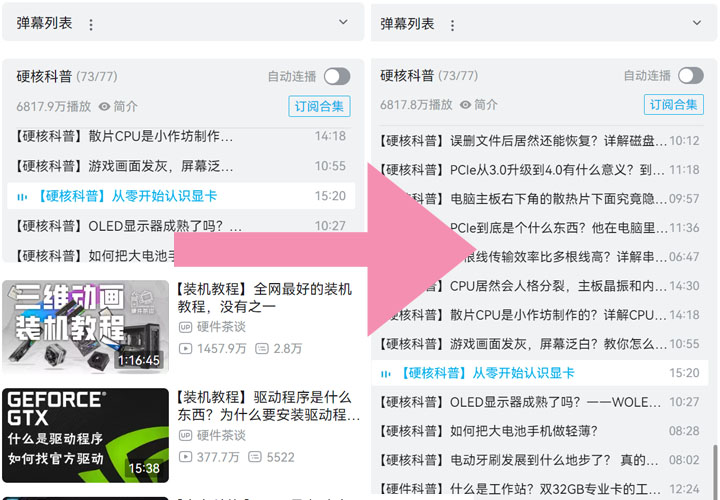
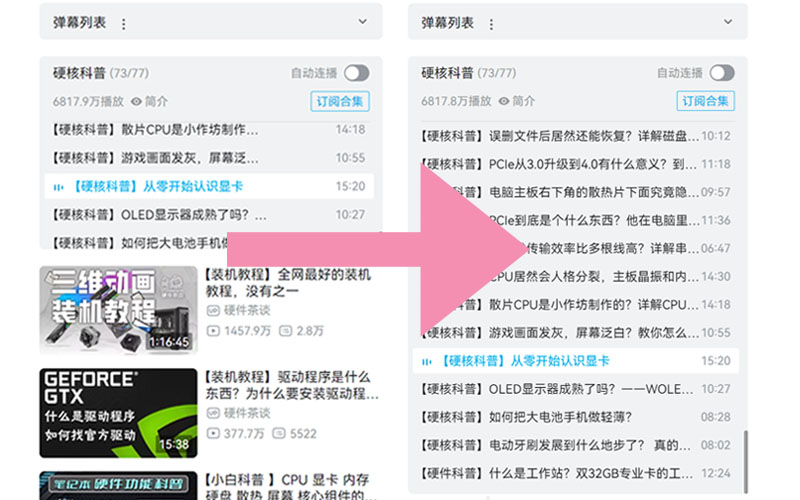
picture

diff --git a/README.md b/README.md
@@ -1,6 +1,12 @@
 # BiliRefine
-修改哔哩哔哩视频合集长度_直播视频大小_评论区间隔
 
-此代码为油猴(Tampermonkey)js脚本，油猴project address_https://greasyfork.org/zh-CN/scripts/480765-%E5%93%94%E5%93%A9%E5%93%94%E5%93%A9%E8%A7%86%E9%A2%91%E5%88%97%E8%A1%A8%E5%A2%9E%E5%BC%BA?locale_override=1
+这是一个修改哔哩哔哩视频合集长度_直播视频大小_评论区间隔的js脚本
+
+* [Tampermonkey project](https://greasyfork.org/zh-CN/scripts/480765-%E5%93%94%E5%93%A9%E5%93%94%E5%93%A9%E8%A7%86%E9%A2%91%E5%88%97%E8%A1%A8%E5%A2%9E%E5%BC%BA?locale_override=1)
+
+![1](.picture\videoListHightComparison.jpg)
+![2](.picture\commentSectionSpacingComparison.jpg)
+
+---
 
 [![Star History Chart](https://api.star-history.com/svg?repos=UnfiniSmile/BiliRefine&type=Date)](https://star-history.com/#UnfiniSmile/BiliRefine&Date)
